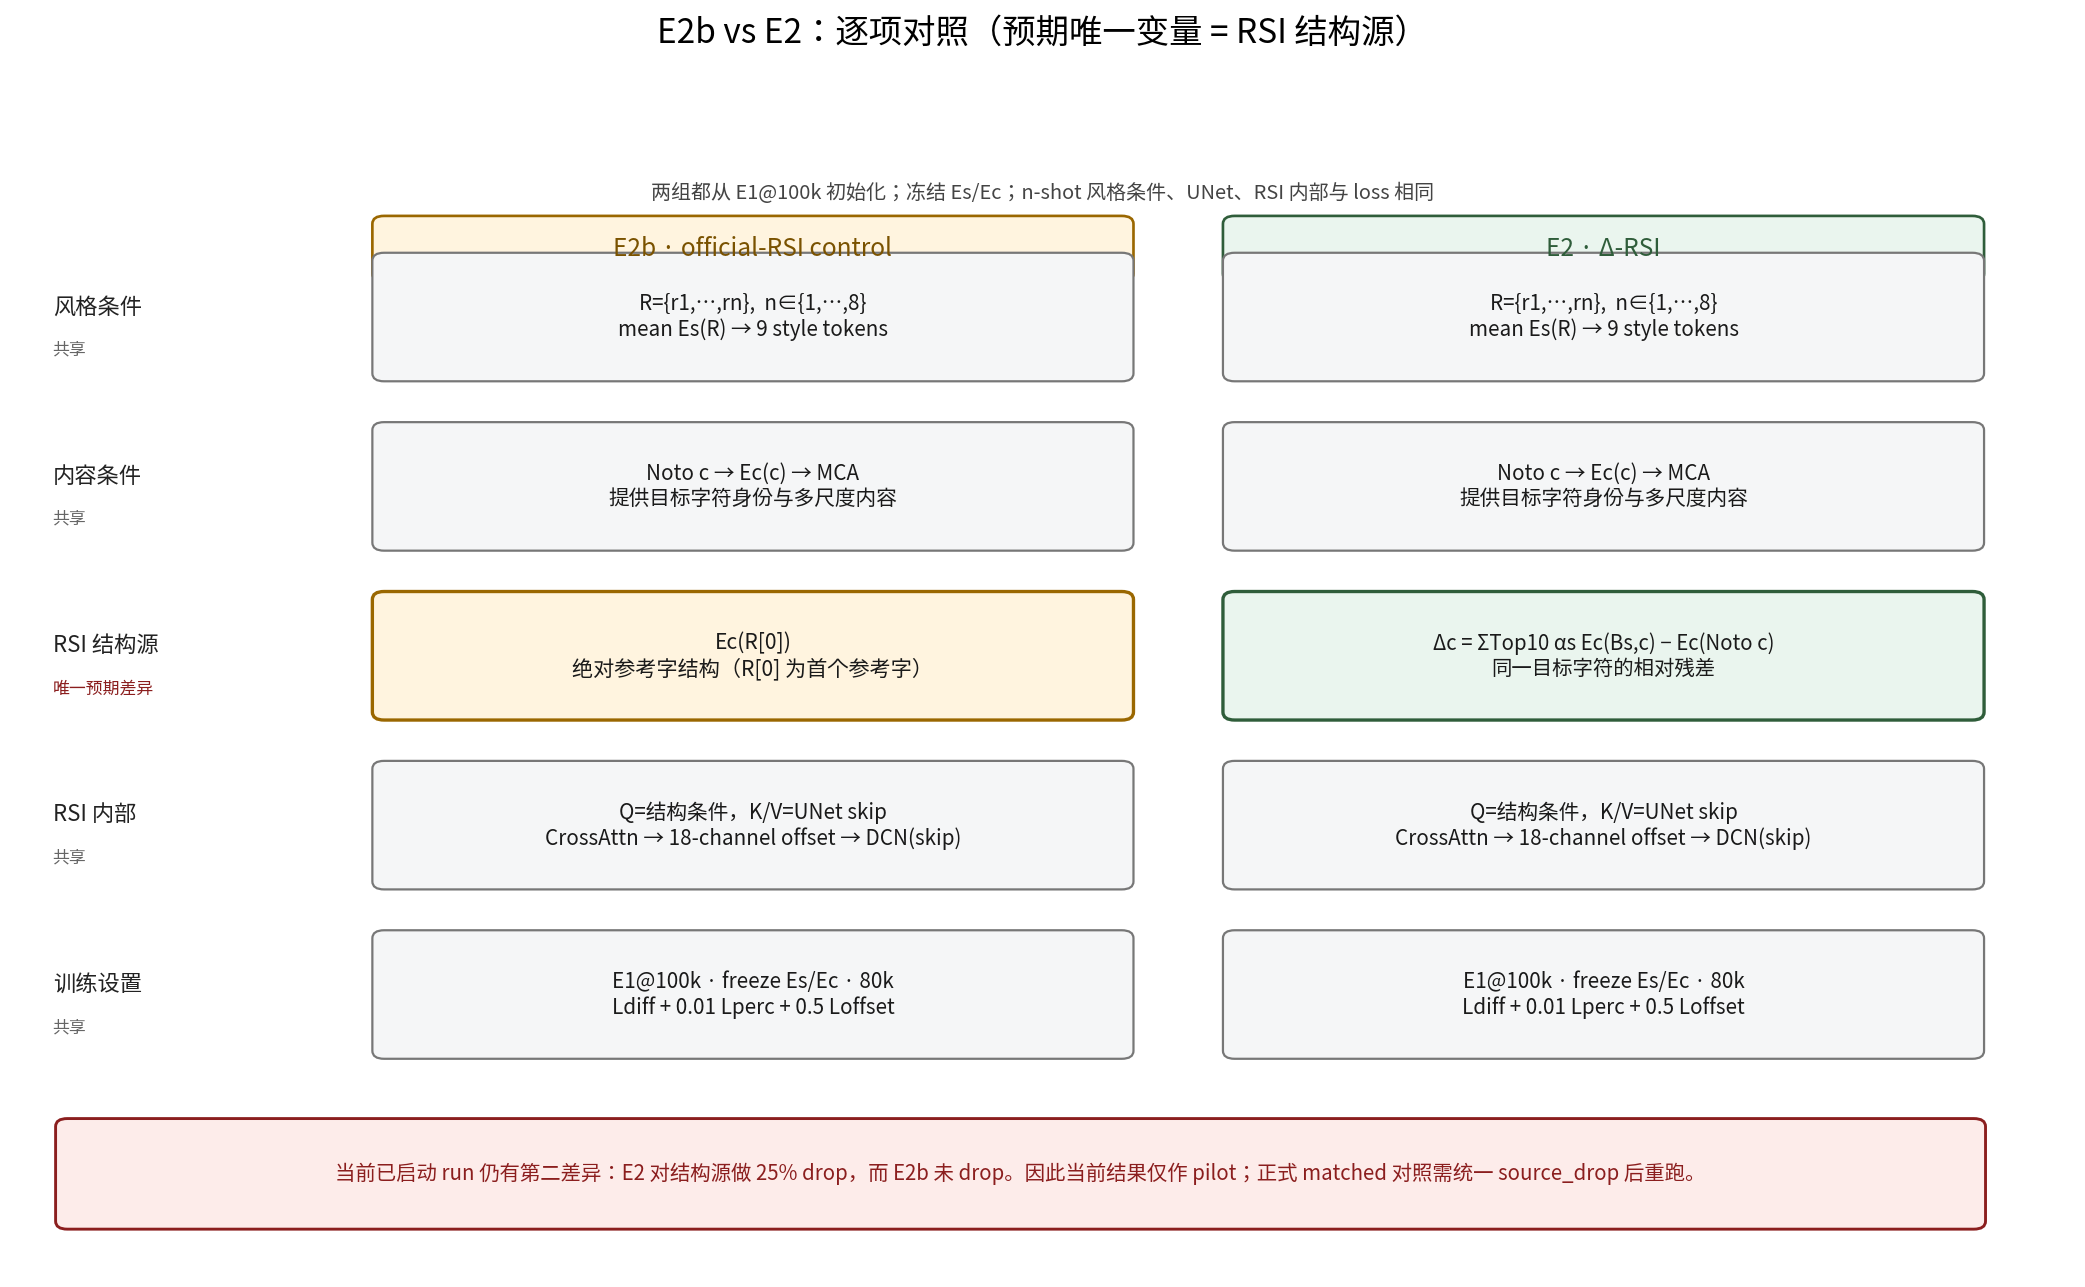
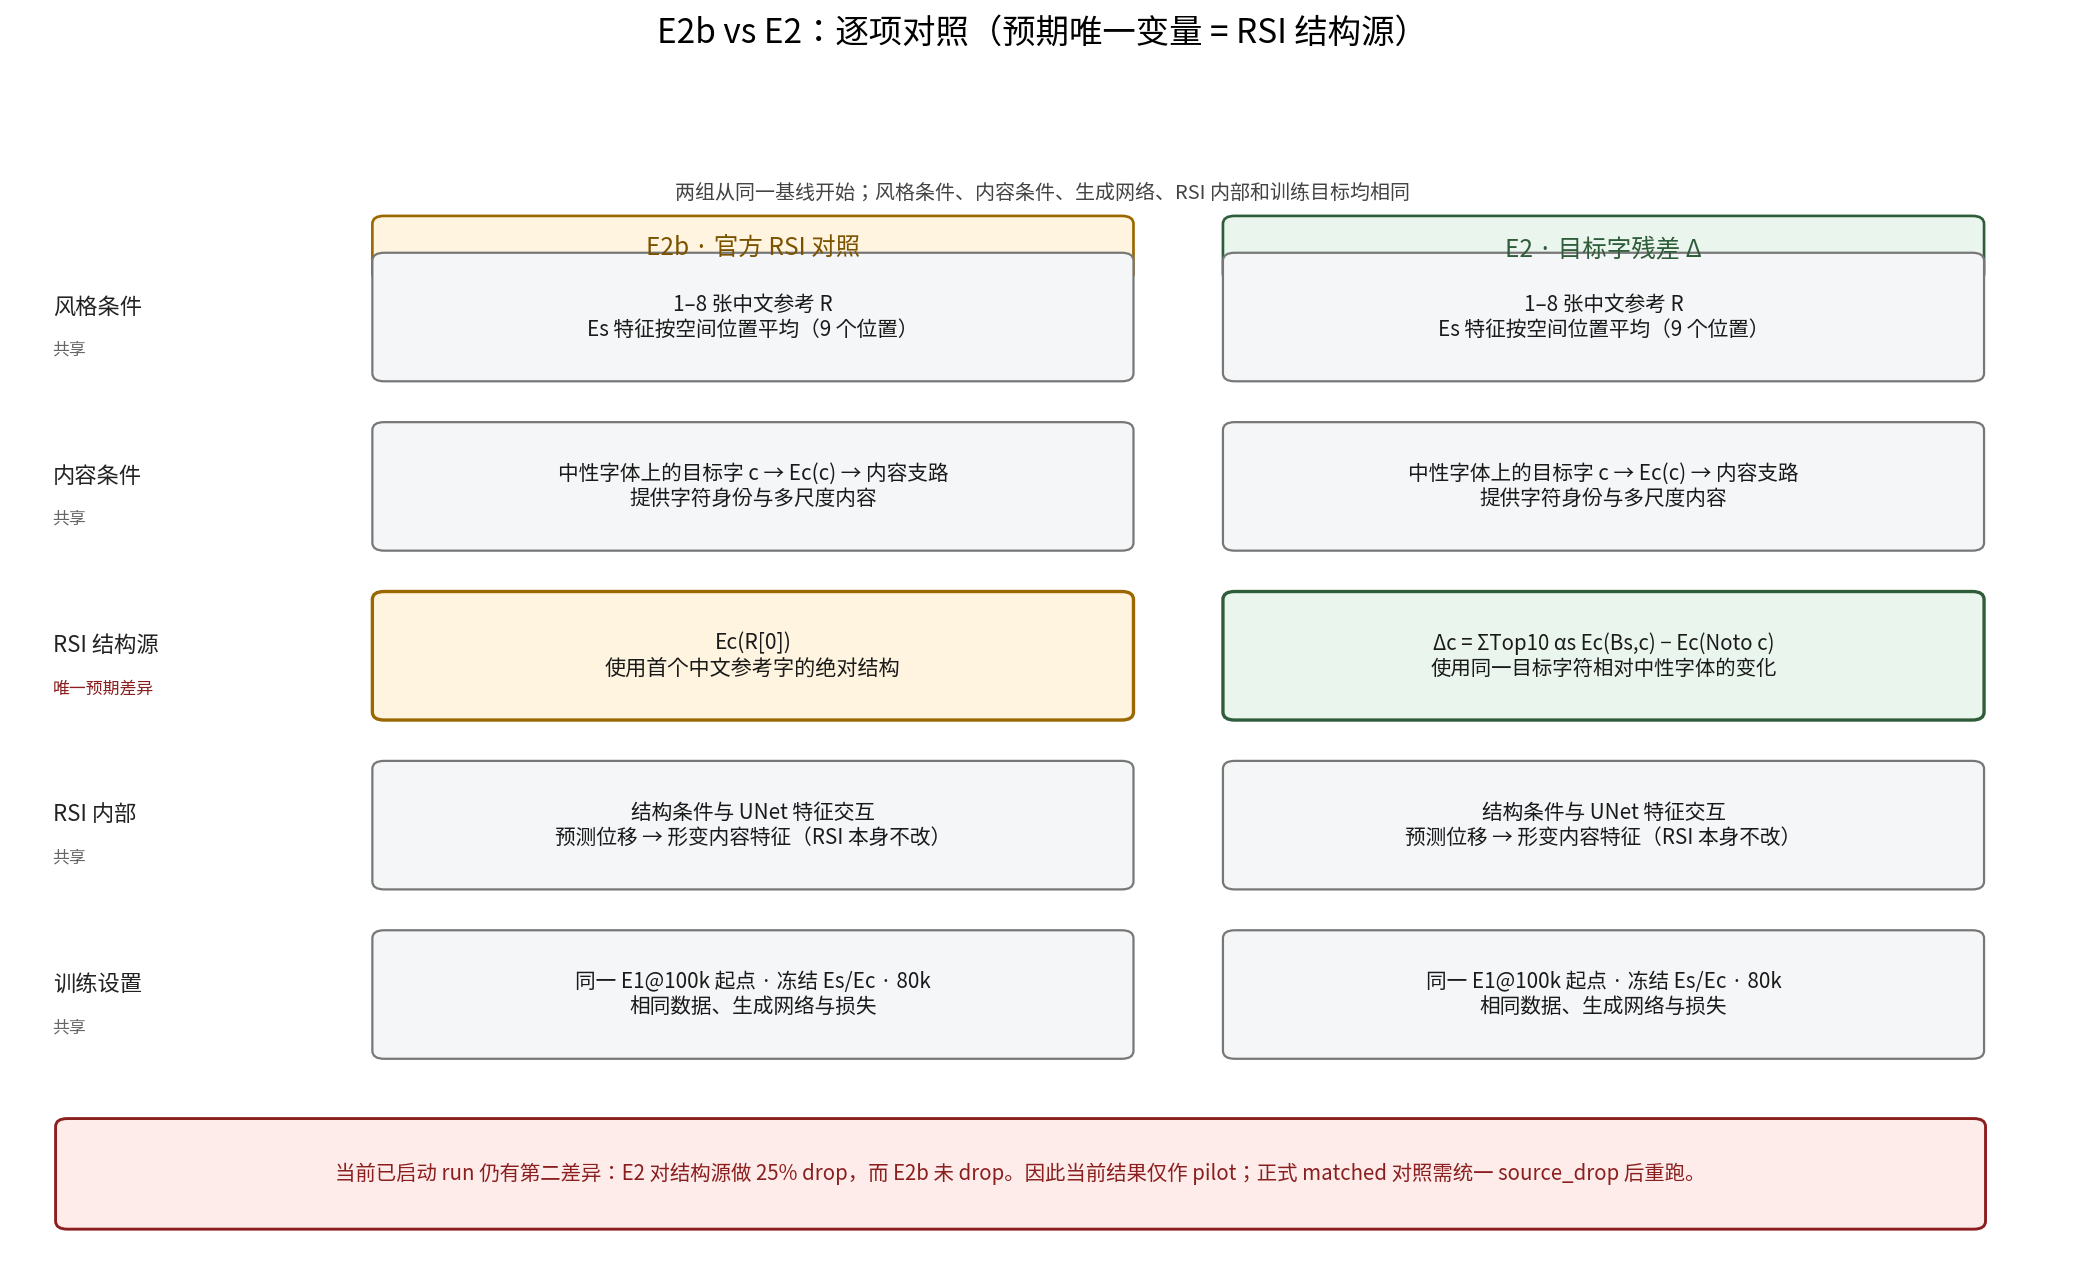
docs: streamline mentor weekly report

diff --git a/scripts/build_weekly_mentor_figs.py b/scripts/build_weekly_mentor_figs.py
@@ -50,12 +50,14 @@ def glyph(proto: str, split: str, font: str, role: str, cp: str) -> Path:
 def fig_protocols() -> None:
     font = "FZBenMXYTJW_Italic"
     rows = [
-        ("StyleImage", "u6C38", "风格参考「永」"),
-        ("TargetImage", "u0041", "目标西文「A」"),
-        ("TargetImage", "u0061", "目标西文「a」"),
+        ("StyleImage", "u6C38", "中文参考「永」"),
+        ("TargetImage", "u0041", "拉丁字母「A」"),
+        ("TargetImage", "u3042", "平假名「あ」"),
+        ("TargetImage", "u30A2", "片假名「ア」"),
+        ("TargetImage", "u3105", "注音符号「ㄅ」"),
     ]
     keys = list(PROTOS)
-    fig, axes = plt.subplots(len(rows), len(keys), figsize=(11.2, 6.2))
+    fig, axes = plt.subplots(len(rows), len(keys), figsize=(11.2, 9.0))
     fig.patch.set_facecolor("white")
     for i, (role, cp, rlab) in enumerate(rows):
         for j, proto in enumerate(keys):
@@ -77,10 +79,10 @@ def fig_protocols() -> None:
                 )
             if j == 0:
                 ax.set_ylabel(rlab, fontproperties=cjk(10))
-    fig.suptitle("同一字体、各行同一字符 · 六种渲染协议", fontproperties=cjk(13, "bold"), y=0.995)
+    fig.suptitle("六种渲染协议在不同文字系统上的效果", fontproperties=cjk(13, "bold"), y=0.995)
     fig.text(
         0.5, 0.01,
-        "训练与评测已冻结协议 A（逐字体统一字号、不缩放）。H 人工检查后弃用。",
+        "每行固定同一字体与字符，仅改变渲染协议。A 保留相对字号且不插值，作为唯一训练与评测协议。",
         ha="center", fontproperties=cjk(9), color="#333",
     )
     fig.tight_layout(rect=(0.02, 0.04, 1, 0.96))
@@ -122,7 +124,7 @@ def fig_method() -> None:
     )
     ax.text(
         7, 10.82,
-        "两组都从 E1@100k 初始化；冻结 Es/Ec；n-shot 风格条件、UNet、RSI 内部与 loss 相同",
+        "两组从同一基线开始；风格条件、内容条件、生成网络、RSI 内部和训练目标均相同",
         ha="center", va="center", fontproperties=cjk(9), color="#444",
     )
 
@@ -141,13 +143,13 @@ def fig_method() -> None:
         (left_x, 9.95), box_w, 0.62, boxstyle="round,pad=0.02,rounding_size=0.08",
         facecolor="#fff4df", edgecolor="#9a6700", linewidth=1.2,
     ))
-    ax.text(left_x + box_w / 2, 10.26, "E2b · official-RSI control",
+    ax.text(left_x + box_w / 2, 10.26, "E2b · 官方 RSI 对照",
             ha="center", va="center", fontproperties=cjk(11, "bold"), color="#7a5200")
     ax.add_patch(mpatches.FancyBboxPatch(
         (right_x, 9.95), box_w, 0.62, boxstyle="round,pad=0.02,rounding_size=0.08",
         facecolor="#eaf5ee", edgecolor="#2f5d3a", linewidth=1.2,
     ))
-    ax.text(right_x + box_w / 2, 10.26, "E2 · Δ-RSI",
+    ax.text(right_x + box_w / 2, 10.26, "E2 · 目标字残差 Δ",
             ha="center", va="center", fontproperties=cjk(11, "bold"), color="#2f5d3a")
 
     for y, (name, tag) in zip(row_y, row_labels):
@@ -162,11 +164,11 @@ def fig_method() -> None:
     left_edge, right_edge = "#9a6700", "#2f5d3a"
 
     shared_rows = [
-        "R={r1,…,rn},  n∈{1,…,8}\nmean Es(R) → 9 style tokens",
-        "Noto c → Ec(c) → MCA\n提供目标字符身份与多尺度内容",
+        "1–8 张中文参考 R\nEs 特征按空间位置平均（9 个位置）",
+        "中性字体上的目标字 c → Ec(c) → 内容支路\n提供字符身份与多尺度内容",
         None,
-        "Q=结构条件，K/V=UNet skip\nCrossAttn → 18-channel offset → DCN(skip)",
-        "E1@100k · freeze Es/Ec · 80k\nLdiff + 0.01 Lperc + 0.5 Loffset",
+        "结构条件与 UNet 特征交互\n预测位移 → 形变内容特征（RSI 本身不改）",
+        "同一 E1@100k 起点 · 冻结 Es/Ec · 80k\n相同数据、生成网络与损失",
     ]
     for idx, (y, text) in enumerate(zip(row_y, shared_rows)):
         if idx == 2:
@@ -176,12 +178,12 @@ def fig_method() -> None:
 
     _box(
         ax, (left_x, row_y[2]), box_w, box_h,
-        "Ec(R[0])\n绝对参考字结构（R[0] 为首个参考字）",
+        "Ec(R[0])\n使用首个中文参考字的绝对结构",
         left_diff, edge=left_edge, fs=9.5, lw=1.5,
     )
     _box(
         ax, (right_x, row_y[2]), box_w, box_h,
-        "Δc = ΣTop10 αs Ec(Bs,c) − Ec(Noto c)\n同一目标字符的相对残差",
+        "Δc = ΣTop10 αs Ec(Bs,c) − Ec(Noto c)\n使用同一目标字符相对中性字体的变化",
         right_diff, edge=right_edge, fs=9.2, lw=1.5,
     )
 

diff --git a/reports/WEEKLY_20260905.md b/reports/WEEKLY_20260905.md
@@ -1,66 +1,57 @@
 # HR-Font 周报 · 2026-09-05
 
-对象：导师（只读本页）。基模为 **FontDiffuser (FD)**。任务：以目标字体的少量汉字为风格，生成同一字体中的拉丁字母。
+**任务：** 给定一个新字体的少量汉字，生成该字体的拉丁字母、日文假名和注音符号。基模为 FontDiffuser（FD）。
 
-**本周结论：** FD 在自建中文→西文数据上的微调基线（E1）已训完；方法已接到 FD 上；主对照 E2 / E2b 正在跑；E1c 因显存占用未开。
+**本周结论：** 数据渲染协议与训练集已确定，FD 微调基线 E1 已完成，目标字残差方法已接入。代码复查同时发现当前 E2/E2b 还存在一处额外差异，因此正在运行的结果只作诊断，修正后再做正式对照。
 
-## 1. 方法：将 RSI 的参考字结构改为目标字残差
+## 1. 数据：六种渲染方式中选择 A
 
-FD 的输入本来就是两个不同字符：一张中性字体的**内容图**指定要生成哪个字；另一张同目标字体的**参考图**提供风格。官方训练代码会从同一字体中随机选择参考字，并排除当前目标字。
+数据共 **260 套字体**：每套字体包含 338 个汉字风格参考，以及 295 个目标字符（数字与拉丁字母、拉丁扩展字母、平假名、片假名、注音符号）。按字体划分为 **228/16/16** 套训练/验证/测试集。
 
-FD 对参考图做两次编码：\(E_s\) 提取风格；\(E_c\) 提取参考字的结构图，送入 RSI。RSI 以参考结构为 Query、UNet 的内容 skip feature 为 Key/Value，通过 cross-attention 预测可变形卷积的位移，再重采样 skip feature。因此，“参考字与目标字不同”不是 FD 的实现错误，而是它原本的设计。
+| 协议 | 渲染方式 | 主要效果 | 决定 |
+|---|---|---|---|
+| **A** | 每套字体统一字号；96×96 直接渲染，不缩放 | 保留同一字体内不同字符的相对大小，边缘清晰 | **采用** |
+| **B** | 每套字体按高度统一；过宽字符单独缩小 | 高度较一致，但宽字符使用了例外规则 | 不采用 |
+| **C** | 在 128×128 渲染，再缩放到 96×96 | 字形较大，但插值可能使边缘变软 | 不采用 |
+| **D** | 每个字符单独放大到逻辑边界 | 画布利用率高，但破坏字符间相对大小 | 不采用 |
+| **F** | 每个字符按实际墨迹单独撑满 | 填充最充分，但同样破坏相对大小 | 不采用 |
+| **H** | 每套字体按实际墨迹统一字号 | 未显示出相对 A 的稳定优势 | 人工检查后弃用 |
 
-RSI 没有位移真值；训练中的 offset loss 只限制位移不要过大，正确形变主要由最终生成图的扩散损失和感知损失间接学习。
+**归类与结论：** A/B/H 是“每套字体统一字号”，D/F 是“每个字符单独定字号”，C 是“先大图渲染再缩放”。最终选择 **A**，因为它同时保持字体内部的相对比例、避免插值，并在不同文字系统上使用同一规则。
 
-我们关注的是这一设计在**跨语系**时可能存在的局限：相较于同语系异字，中文参考与拉丁目标的局部结构共享可能更弱。RSI 虽然能够学习空间错位，但由汉字参考结构预测拉丁字母形变可能较难。**这是本文待验证的假设，不是已经证实的结论。**
+![六种协议在不同文字系统上的渲染对比](weekly_20260905/fig1_six_protocols.png)
 
-我们的改动是：风格仍由中文参考提供，但给 RSI 的结构条件改为**从字体库估计的、同一目标字符的相对变化**。
+## 2. 方法：让 RSI 使用目标字符自身的变化
 
-以生成 `a` 为例：
+FD 使用两张条件图：中性字体的目标字符 \(c\) 指定“生成哪个字”，目标字体的汉字参考 \(R\) 指定“生成什么风格”。FD 内部的 RSI 模块还会读取参考字结构，并据此预测内容特征应如何移动。
 
-1. 用目标字体的若干汉字参考，经 \(E_s\) 判断它与训练字体库中哪些字体最相近；
-2. 从最相近的 10 套库字体中取出各自的 `a`，在 \(E_c\) 特征空间按相似度加权；
-3. 减去中性字体 Noto 的 `a` 特征，得到同字残差
+FD 原本就允许参考字与目标字不同；我们关注的是，**汉字参考与拉丁/假名目标之间的局部结构共享可能较弱**。因此，我们保留汉字参考提供的风格，只把 RSI 的结构条件改为同一目标字符的相对变化：
+
+1. 用 1–8 张汉字参考寻找风格最相近的 10 套训练字体；
+2. 取这 10 套字体中的同一个目标字符 \(c\)，在特征空间按相似度加权；
+3. 减去中性字体中同一个 \(c\) 的特征，得到目标字残差
 
 \[
-\Delta_a=\sum_{s\in\mathrm{Top10}}\alpha_s E_c(a_s)-E_c(a_{\mathrm{Noto}}).
+\Delta_c=\sum_{s\in\mathrm{Top10}}\alpha_sE_c(B_s,c)-E_c(B_0,c).
 \]
 
-\(\Delta_a\) 旨在削弱各字体共有的 `a` 身份分量，突出相对中性 `a` 的特征变化；我们预期它能提示笔画粗细、曲率、端点和局部比例应如何调整。字符身份仍由 Noto `a` 提供，中文参考的风格仍由 \(E_s\) 提供。
+\(\Delta_c\) 表示“相对中性字形，目标风格可能需要改变哪些局部结构”。UNet、RSI 内部和损失函数均不改，只替换 RSI 的结构条件。该假设最终由 E2 与 E2b 的严格配对实验判断。
 
-因此，我们**不修改 FD 的 UNet、RSI 注意力或可变形卷积，只替换 RSI 的输入条件**：  
-官方为 \(E_c(\text{参考字})\)，我们在中文→西文任务中改为 \(\Delta_{\text{目标字母}}\)。该替换是否优于官方 RSI，最终由 E2 与 E2b 的配对实验判断。
+![E2b 与 E2 的逐项对照](weekly_20260905/fig2_method.png)
 
-详细的论文、代码数据流与 loss 审查见 [RSI_CORRECTNESS_REVIEW_20260905.md](./RSI_CORRECTNESS_REVIEW_20260905.md)。
+## 3. 基线与当前进度
 
-下图将 E2b 与 E2 逐项对齐；灰色行均相同，只有“RSI 结构源”是预期主变量。底部红框单列当前运行中发现的额外差异。
-
-![E2b 与 E2 逐项对照](weekly_20260905/fig2_method.png)
-
-## 2. 数据与 E1 基线
-
-渲染试了六种策略（字号是否统一、是否缩放、是否逐字撑满）。**训练与评测冻结协议 A**：逐字体统一字号、96×96、不缩放。H 经人工检查后弃用。
-
-![六种渲染（同字体同字）](weekly_20260905/fig1_six_protocols.png)
-
-**E1**：在协议 A、拆分 228/16/16 上微调官方 FD，100k 步，已完成。下图为未见过的测试字体：内容 / 汉字风格 / 真值 / E1 生成。后续实验均从 E1@100k 初始化，冻 \(E_s/E_c\)，只训 UNet 与 RSI 形变头。
+E1 在协议 A 上微调 FD 100k 步，已完成。下图是未见测试字体的“中性内容 / 汉字参考 / 真值 / E1 生成”。结果说明基线已经能够生成目标字符，但部分样本的局部结构和目标风格仍有偏差。
 
 ![E1 测试集示例](weekly_20260905/fig3_e1_examples.png)
 
-## 3. 本周实验（三组，同一起点、同一预算）
-
-| 实验 | 相对 E1 改了什么 | 用来回答 |
+| 实验 | 作用 | 当前状态 |
 |---|---|---|
-| **E1c** | 冻结编码器的 1-shot official-RSI 训练臂，结构源为 \(E_c(R[0])\) | 不改 RSI 的 1-shot 基线 |
-| **E2b** | 多张汉字参考的 9-token 风格条件；结构源为 \(E_c(R[0])\) | Δ 的 official-RSI 对照 |
-| **E2** | 风格与 E2b 相同；结构源改为 Δ | Δ 是否有独立贡献 |
+| **E1** | FD 微调基线 | 100k，已完成 |
+| **E1c** | 1-shot、官方 RSI 的冻结编码器基线 | 因 GPU 显存占用未启动 |
+| **E2b** | 多参考风格 + 官方参考字结构 \(E_c(R[0])\) | 27800/80000，诊断运行 |
+| **E2** | 与 E2b 相同，但 RSI 结构条件改为 \(\Delta_c\) | 9200/80000，诊断运行 |
 
-预期主结论来自 **E2 vs E2b**；E1c vs E2b 用于观察多参考风格条件的影响。但代码复查发现，当前 E2 对结构源做 25% drop，而 E2b 未做同样的 drop，因而当前两条长跑只能作为 pilot，不能作为最终 matched 结论。正式比较需统一 `source_drop` 后重跑。
+代码复查发现，当前 E2 对结构条件做了 25% 随机置零，而 E2b 没有使用相同规则，所以这两条运行**不能直接形成正式结论**。下一步是统一该规则、通过短跑检查后重启正式 E2/E2b；现有运行保留用于排查，不覆盖。
 
-## 4. 进度与需知情事项
-
-- 方法已接入训练，短跑通过。
-- 截至 09-05 13:55，**E2b** 为 27800/80000（约 35%）；**E2** 为 9200/80000（约 12%）。二者同日、同提交启动，但因上述 source-drop 差异暂不视为严格 matched。
-- **E1c 未启动**：两张 GPU 被已退出进程占满显存，重置驱动会中断 E2/E2b。默认先保主对照，E2b 结束后补 E1c。
-
-下一步先修正并验证统一 source-drop，再确定正式 E2/E2b 重跑安排；当前运行保留作诊断，不覆盖。
+技术细节与正确性审查见 [RSI_CORRECTNESS_REVIEW_20260905.md](./RSI_CORRECTNESS_REVIEW_20260905.md)。
